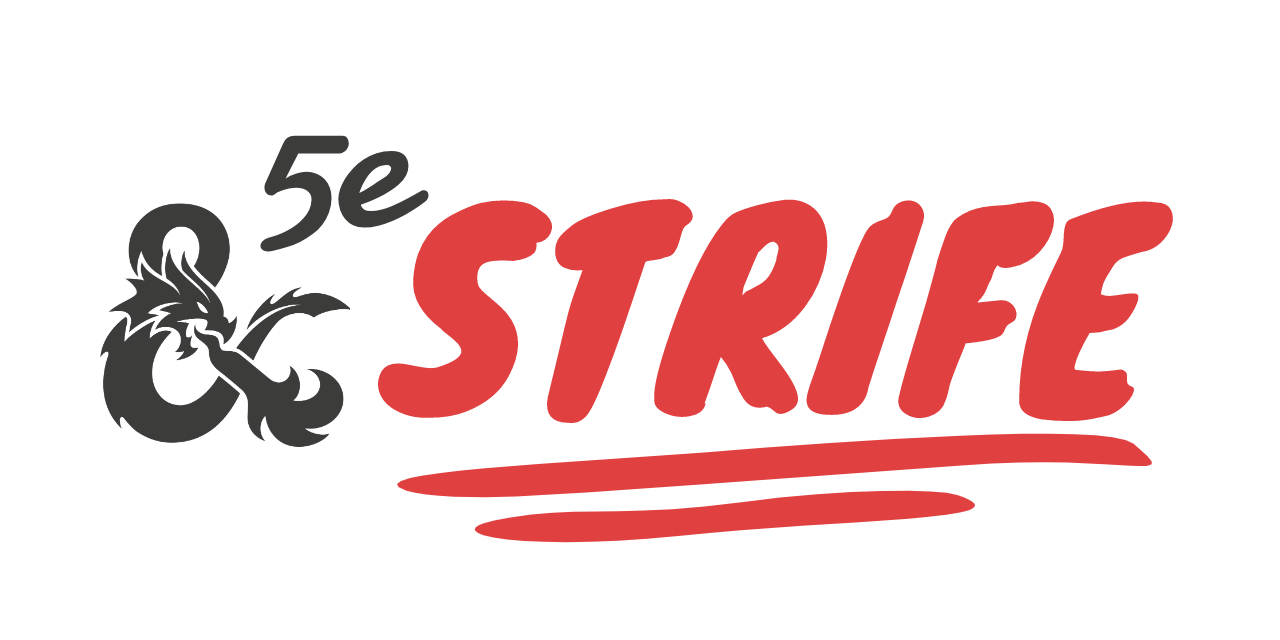
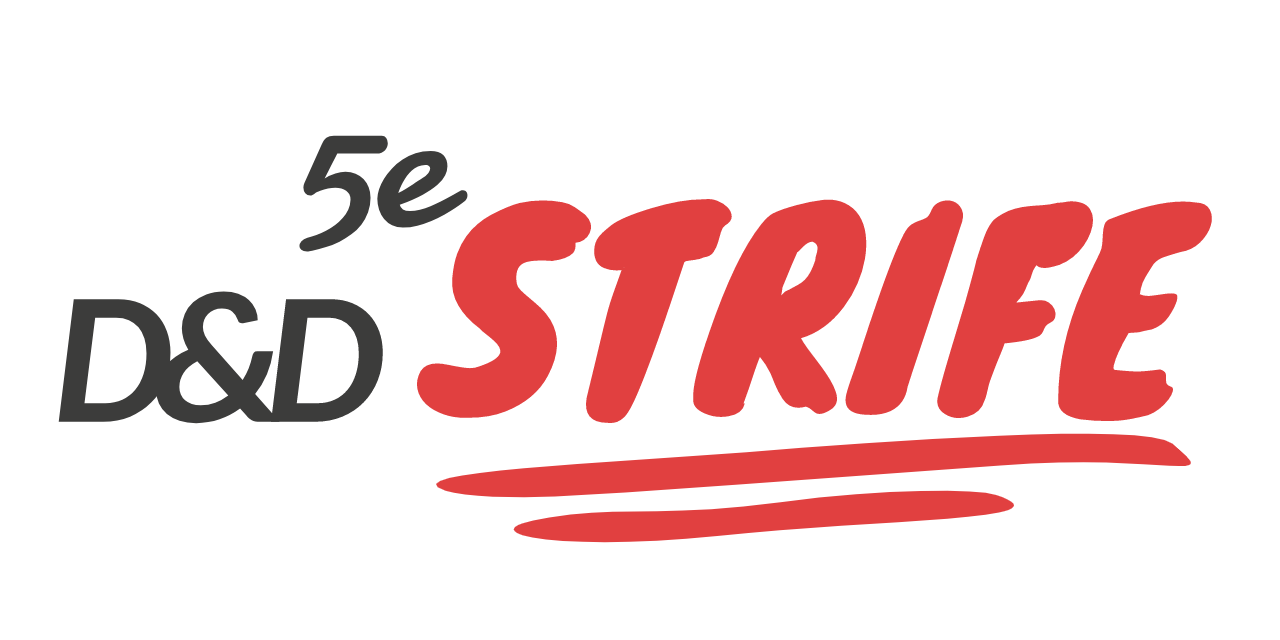
fix!: :boom::bug: fix issue with branding breaking the law

Changed region(s): [[0.0312, 0.1875, 0.9688, 0.75], [0.3125, 0.6875, 0.8125, 0.8438]]

diff --git a/src/App.svelte b/src/App.svelte
@@ -1,5 +1,6 @@
 <script>
   export let name;
+  import { json } from "./app.js";
 </script>
 
 <style type="text/scss">
@@ -7,7 +8,7 @@
 </style>
 
 <main>
-  <h1>Hello {name}!</h1>
+  <h1>Hello {$json}!</h1>
   <p>
     Visit the
     <a href="https://svelte.dev/tutorial">Svelte tutorial</a>
@@ -16,4 +17,3 @@
 
   <button class="btn-primary btn">hi</button>
 </main>
-

diff --git a/src/main.js b/src/main.js
@@ -1,10 +1,11 @@
-import App from './App.svelte';
+import App from "./App.svelte";
+import { writable } from "svelte/store";
 
 const app = new App({
-	target: document.body,
-	props: {
-		name: 'world'
-	}
+  target: document.body,
+  props: {
+    name: "world",
+  },
 });
 
 export default app;

diff --git a/src/app.js b/src/app.js
@@ -1,0 +1,3 @@
+import { writable } from "svelte/store";
+
+export let json = writable("testString");

diff --git a/README.md b/README.md
@@ -5,3 +5,8 @@ This project is intended to be a full replacement for a form-filled or pen & pap
 ## Usage
 
 This section is a work in progress.
+
+
+## Notice
+
+5e-strife is unofficial Fan Content permitted under the Fan Content Policy. Not approved/endorsed by Wizards. Portions of the materials used are property of Wizards of the Coast. ©Wizards of the Coast LLC.
